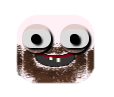
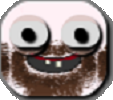
MAJ image/script/css..

diff --git a/CSS/styles.css b/CSS/styles.css
@@ -41,7 +41,7 @@ html,body {
 
 #img {
     text-align: center;
-    width: 25%;
+    width: 15%;
 }
 
 .description {
